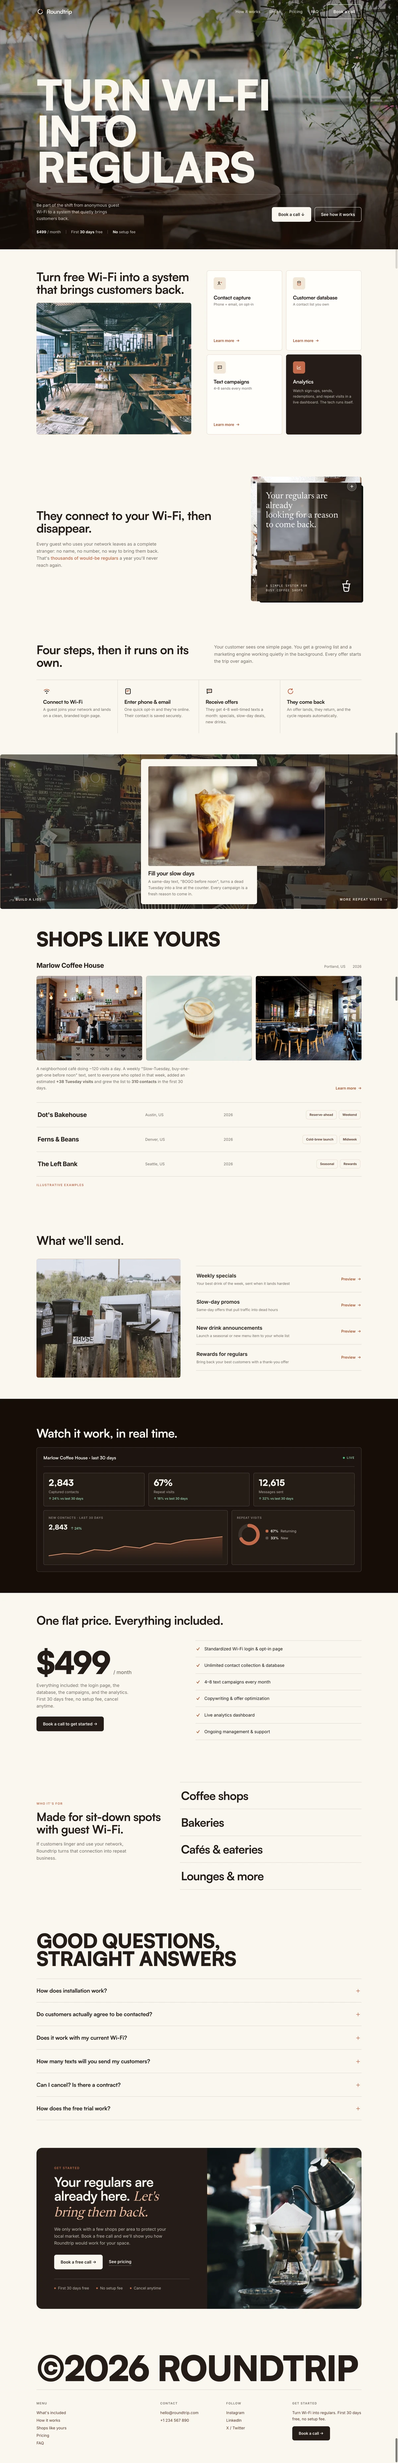
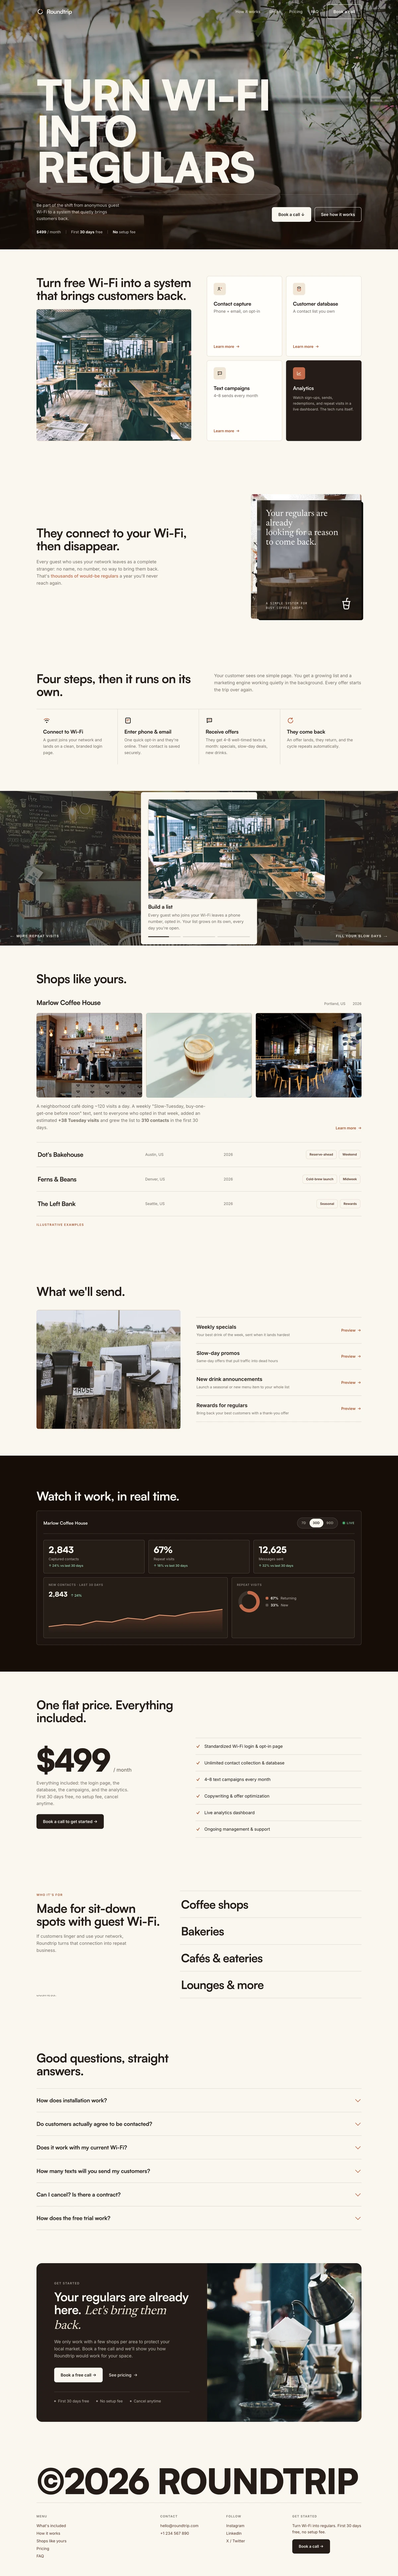
Refresh Roundtrip images

Changed region(s): [[0.0, 0.0, 1.0, 0.4677], [0.0925, 0.4989, 0.925, 0.9977], [0.9867, 0.9665, 1.0, 1.0]]

diff --git a/lib/projects.ts b/lib/projects.ts
@@ -184,7 +184,7 @@ export const projects: Project[] = [
     ],
     body: [
       "Roundtrip is an idea for neighborhood cafés: guests sign in to the Wi-Fi with a phone number, and the shop can send a few well-timed offers a month to bring them back.",
-      "I designed and coded the landing page with a warm, editorial feel: big type over real café photos, a short four-step explanation, example shops, an animated sample dashboard, simple pricing and a FAQ.",
+      "I designed and coded the landing page with a warm, editorial feel: big type over real café photos, a short four-step explanation, example shops, a small carousel, a live sample dashboard you can play with, simple pricing and a FAQ.",
     ],
     media: [
       { kind: "page", src: w("roundtrip", "landing-full"), alt: "Roundtrip landing page", caption: "Landing page, scroll inside the frame" },
